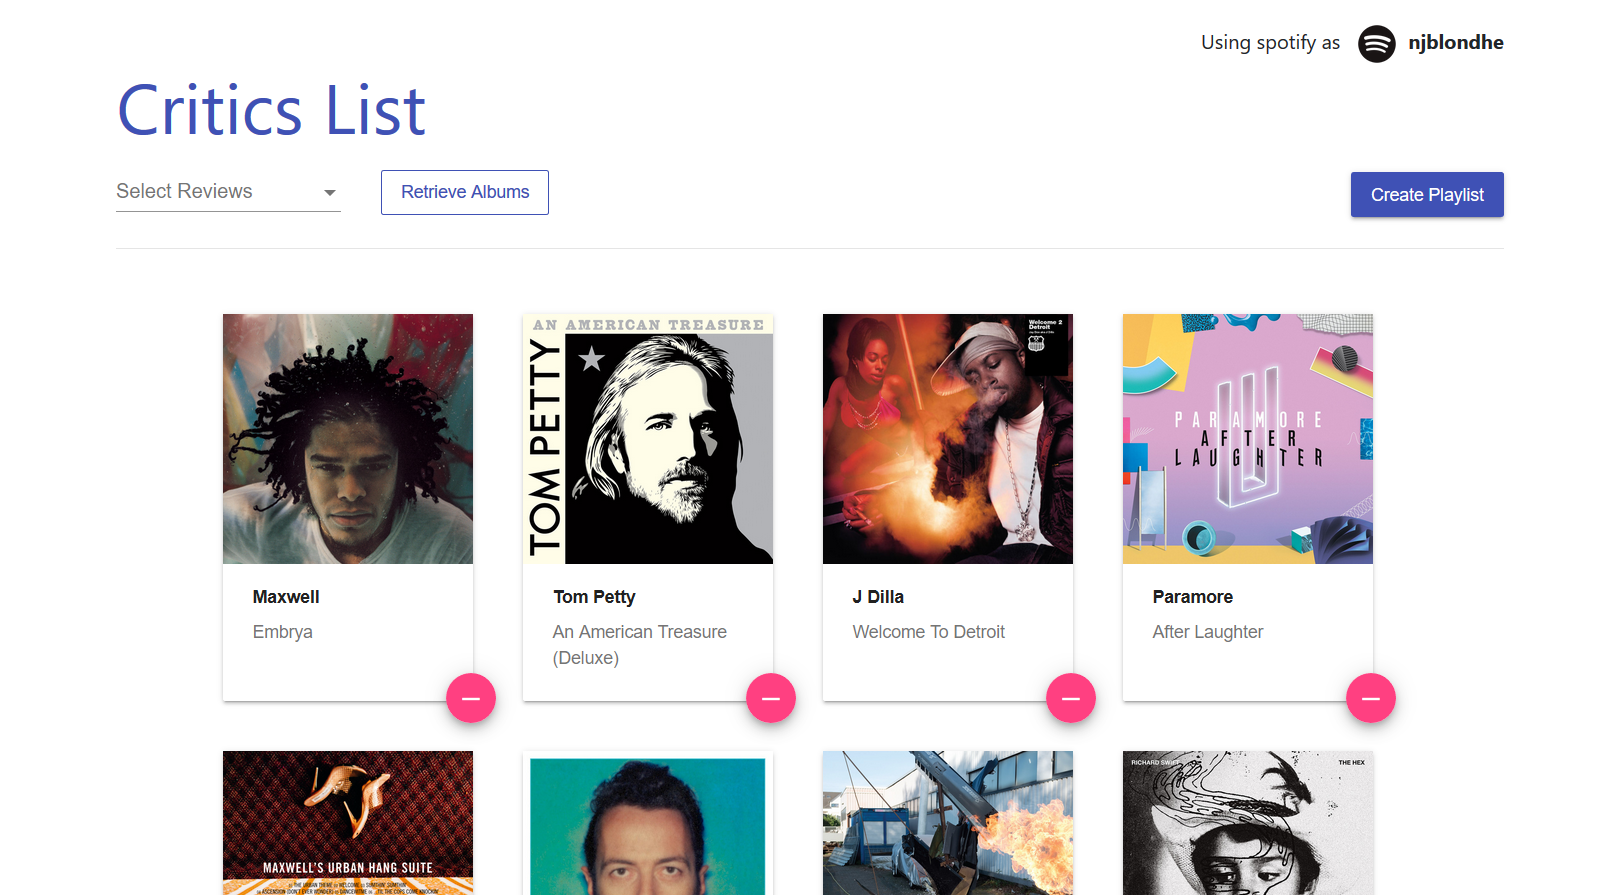
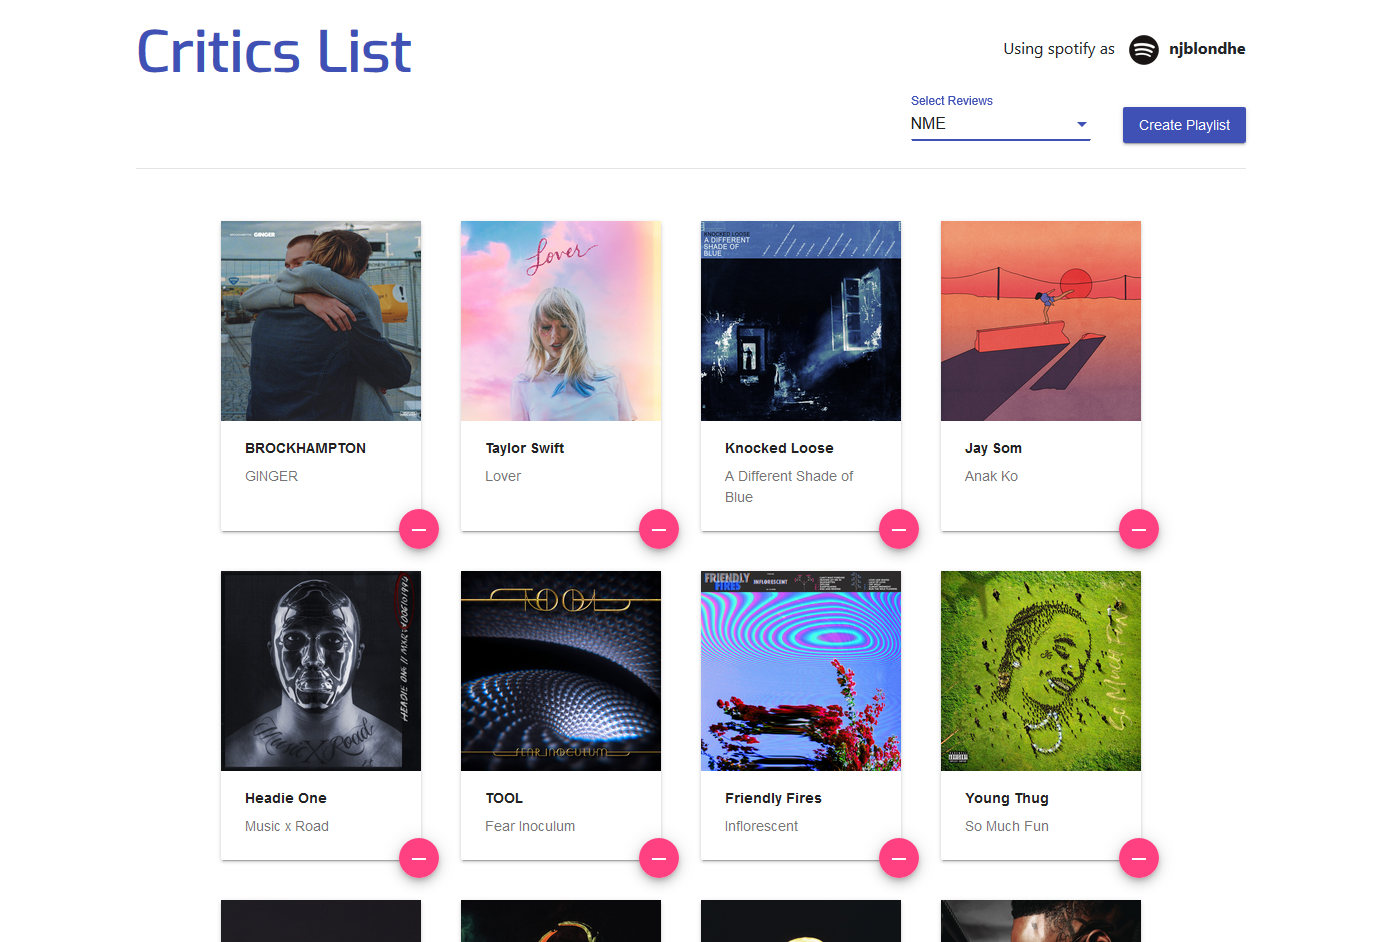
add change listener to select, make style chagnes

diff --git a/src/app/displaydata/displaydata.component.html b/src/app/displaydata/displaydata.component.html
@@ -1,26 +1,25 @@
 <router-outlet></router-outlet>
 <div class="container">
   <div class="jumbotron jumbotron-fluid">
-    <div class="text-right">
+    <div class="headerTop">
+      <span class="appHeader">Critics List</span>
+      <span class="fill-space"></span>
       <span class="user">
         Using spotify as
         <img class="icon" src="./assets/images/Spotify_Icon_RGB_Black.png"><b>{{ this.userId }}</b>
       </span>
     </div>
-    <h1 class="display-4">Critics List</h1>
     <span class="fill-space"></span>
     <div class="header-actions" style="display: flex;">
-      <!-- <form> -->
-        <mat-form-field class="reviewer-select">
-          <mat-select placeholder="Select Reviews" [(ngModel)]="selectedPlaylist" name="reviewer">
-            <mat-option *ngFor="let reviewer of reviewers" [(value)]="reviewer.value">
-              {{reviewer.viewValue}}
-            </mat-option>
-          </mat-select>
-        </mat-form-field>
-        <button class="retrieve" mat-stroked-button color="primary" type=button (click)="getData(selectedPlaylist)">Retrieve Albums</button>
-      <!-- </form> -->
       <span class="fill-space"></span>
+      <mat-form-field class="reviewer-select">
+        <mat-select placeholder="Select Reviews" (selectionChange)="getData(selectedPlaylist)"
+          [(ngModel)]="selectedPlaylist" name="reviewer">
+          <mat-option *ngFor="let reviewer of reviewers" [(value)]="reviewer.value">
+            {{reviewer.viewValue}}
+          </mat-option>
+        </mat-select>
+      </mat-form-field>
       <span class="create">
         <button mat-raised-button color="primary" type=button (click)="createList()">Create Playlist</button>
       </span>

diff --git a/src/app/displaydata/displaydata.component.ts b/src/app/displaydata/displaydata.component.ts
@@ -25,7 +25,6 @@ export class DisplaydataComponent implements OnInit {
   selectedPlaylist = 'Pitchfork - 8.0+ Reviews';
   playlistId;
   displayAlbums = false;
-  verticalPosition: MatSnackBarVerticalPosition = 'top';
 
   constructor(
     private _spotify: SpotifyService,
@@ -97,6 +96,7 @@ export class DisplaydataComponent implements OnInit {
               title: result['albums']['items'][0]['name'],
               artist: result['albums']['items'][0]['artists'][0]['name']
             });
+
             } catch (err) {
               // console.log(`${q} not found in search`);
               // Save in list to display
@@ -107,7 +107,9 @@ export class DisplaydataComponent implements OnInit {
               this.error = error;
             }
           },
-          () => this.displayAlbums = true
+          () => {
+            this.displayAlbums = true;
+          }
         );
     });
   }
@@ -179,6 +181,7 @@ export class DisplaydataComponent implements OnInit {
           results => {
             this.snackBar.open('Critics List added successfully!', 'Close', {
               duration: 3000,
+              verticalPosition: 'top'
             });
           },
           error => {

diff --git a/src/app/displaydata/displaydata.component.css b/src/app/displaydata/displaydata.component.css
@@ -1,17 +1,27 @@
 
 .jumbotron {
-    padding-top: 1.5rem;
+    padding-top: .75rem;
     padding-bottom: 0;
     background: none;
 }
 
-h1.display-4 {
+/* h1.display-4 {
     color: #3f51b5;
     font-weight: 500;
     margin-bottom: 1em;
+    font-family: 'Exo', sans-serif;
+} */
+
+.headerTop {
+    display: flex;
 }
-span.user {
-    margin-right: 0 !important;
+
+span.appHeader {
+    color: #3f51b5;
+    font-weight: 500;
+    font-size: 3.5rem;
+    font-family: 'Exo', sans-serif;
+    font-weight: 800;
 }
 
 div.center {
@@ -33,8 +43,8 @@ img.icon {
 }
 
 span.user {
-    padding-top: .25em;
-    margin-right: 3em;
+    padding-top: 1.5em;
+    margin-right: 0;
 }
 
 .header-actions {

diff --git a/src/index.html b/src/index.html
@@ -7,7 +7,8 @@
 
   <meta name="viewport" content="width=device-width, initial-scale=1">
   <link rel="icon" type="image/x-icon" href="favicon.ico">
-  <link href="https://fonts.googleapis.com/css?family=Arimo|Lato" rel="stylesheet"> 
+  <link href="https://fonts.googleapis.com/css?family=Arimo|Lato" rel="stylesheet">
+  <link href="https://fonts.googleapis.com/css?family=Exo&display=swap" rel="stylesheet"> 
   <link href="https://fonts.googleapis.com/icon?family=Material+Icons"
       rel="stylesheet">
 </head>
